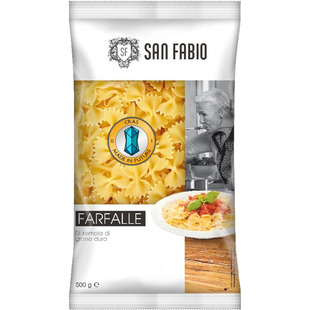
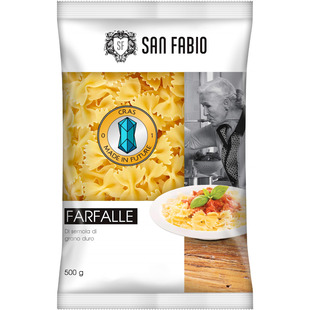
Added San Fabio Farfalle

diff --git a/js/food/array-macaroni.js b/js/food/array-macaroni.js
@@ -715,8 +715,12 @@ export const shopLotsMacaroni = [
         type: "retail",
         url: "./images/shop/food/pasta/macaroni/san_fabio_farfalle_500.jpg",
         alt: "san_fabio_farfalle_500",
-        url1: "./images/shop/food/pasta/macaroni/san_fabio_farfalle_500.jpg",
-        alt1: "san_fabio_farfalle_500",
+        url1: "./images/shop/food/pasta/macaroni/san_fabio_farfalle_500-01.jpg",
+        alt1: "san_fabio_farfalle_500-01",
+        url2: "./images/shop/food/pasta/macaroni/san_fabio_farfalle_500-02.jpg",
+        alt2: "san_fabio_farfalle_500-02",
+        url3: "./images/shop/food/pasta/macaroni/san_fabio_farfalle_500-03.jpg",
+        alt3: "san_fabio_farfalle_500-03",
         marker: "FDMI810",
         brand: "San Fabio",
         search: "сан фабіо фабио макароны бантики бантіки твердый твердий сорт тверді сорта твердые сорта с твердых сортов",
